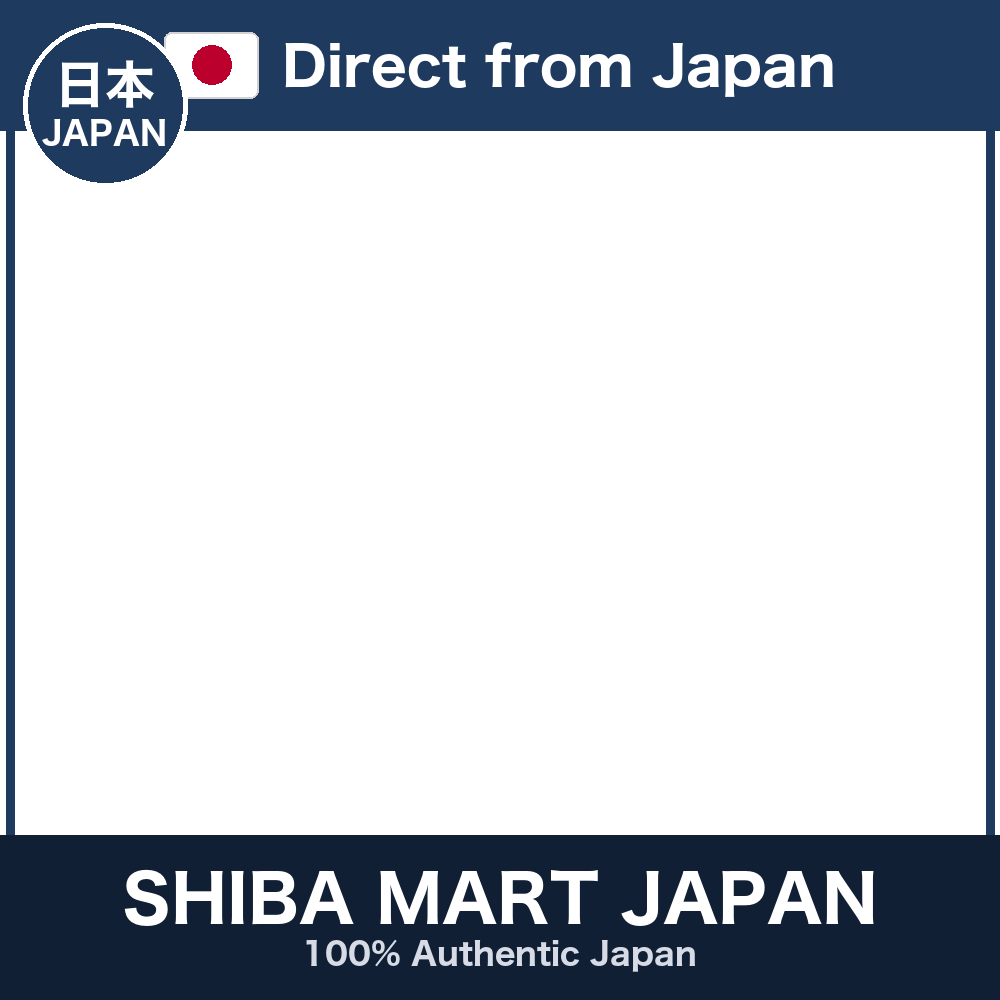
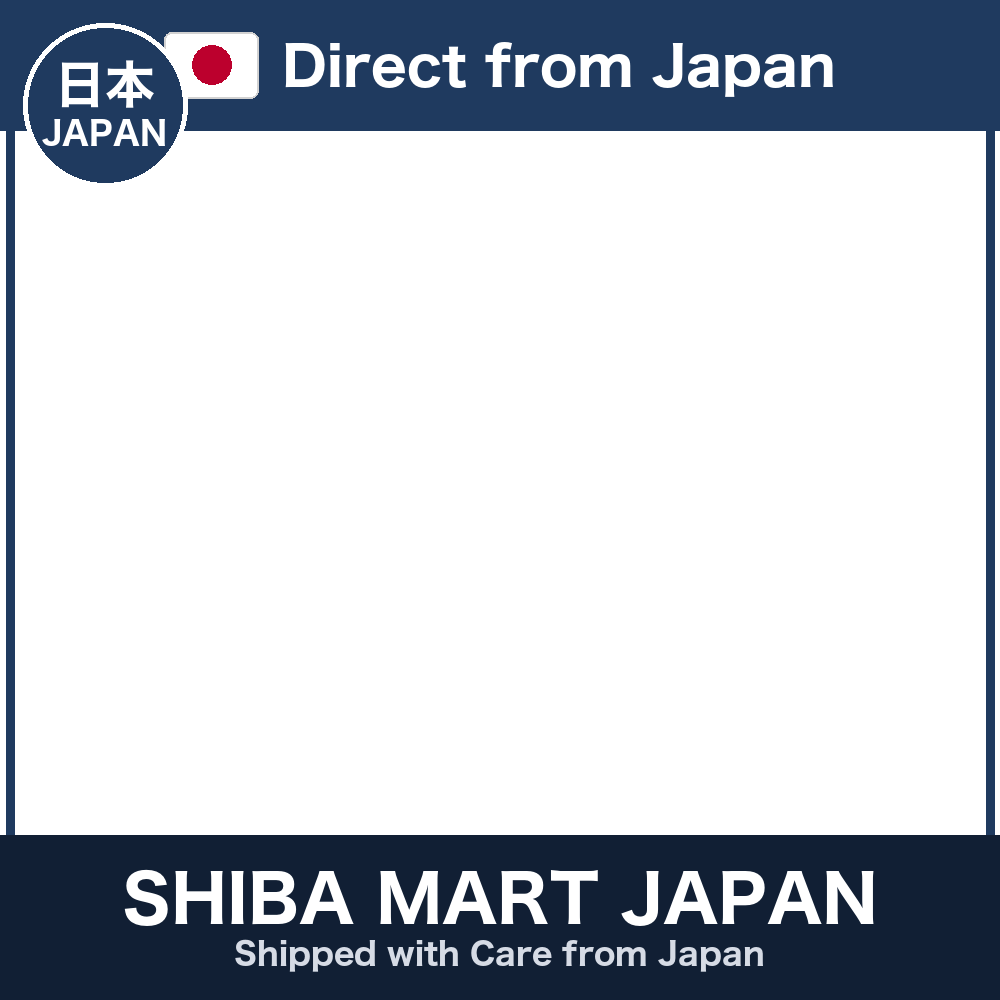
Update frame subtitle: 100% Authentic Japan -> Shipped with Care from Japan
"100% Authentic" is an NG keyword on Shopee and can trigger listing removal.
The Frontier listing sheet pulls this PNG by raw URL, so the file name is kept.

Changed region(s): [[0.217, 0.93, 0.775, 0.992]]

diff --git a/frame_generator.py b/frame_generator.py
@@ -18,7 +18,7 @@ import os, sys
 # CONFIG  ここだけ変えれば調整できます
 # ============================================================
 SHOP_NAME    = "SHIBA MART JAPAN"      # 下バーのメイン店名
-SUBTITLE     = "100% Authentic Japan"  # 下バーのサブ
+SUBTITLE     = "Shipped with Care from Japan"  # 下バーのサブ ★2026-08-06変更: 旧"100% Authentic Japan"はNGキーワード(削除トリガー)
 BANNER_TEXT  = "Direct from Japan"      # 上バナーの文言(国旗は自動描画)
 STICKER_TOP  = "日本"                   # 左上丸シール 上段
 STICKER_BTM  = "JAPAN"                  # 左上丸シール 下段
